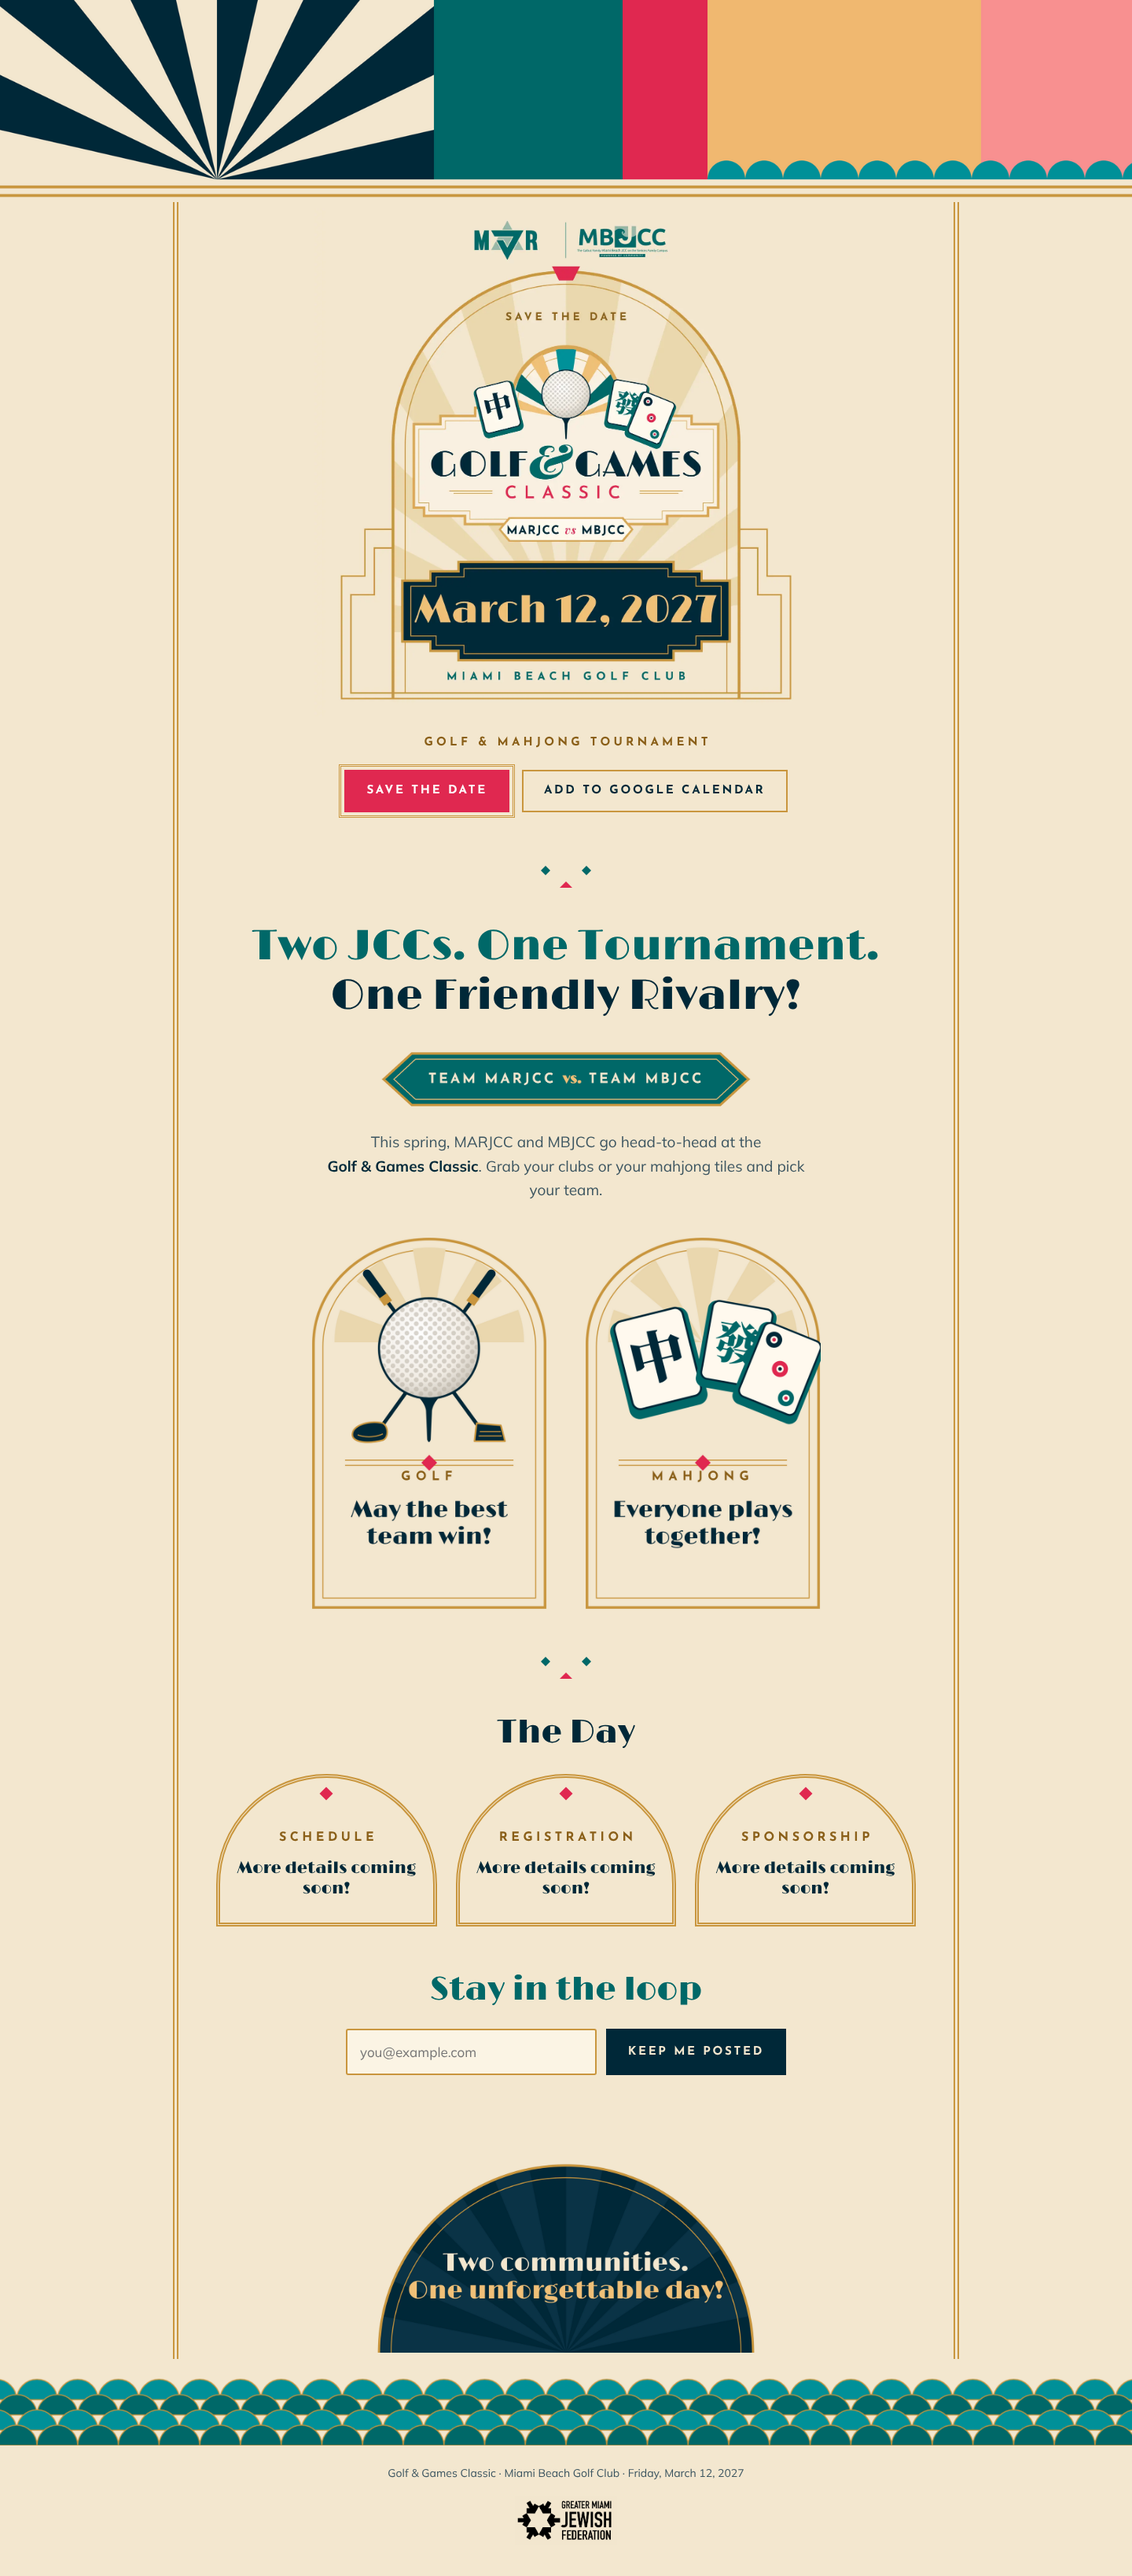
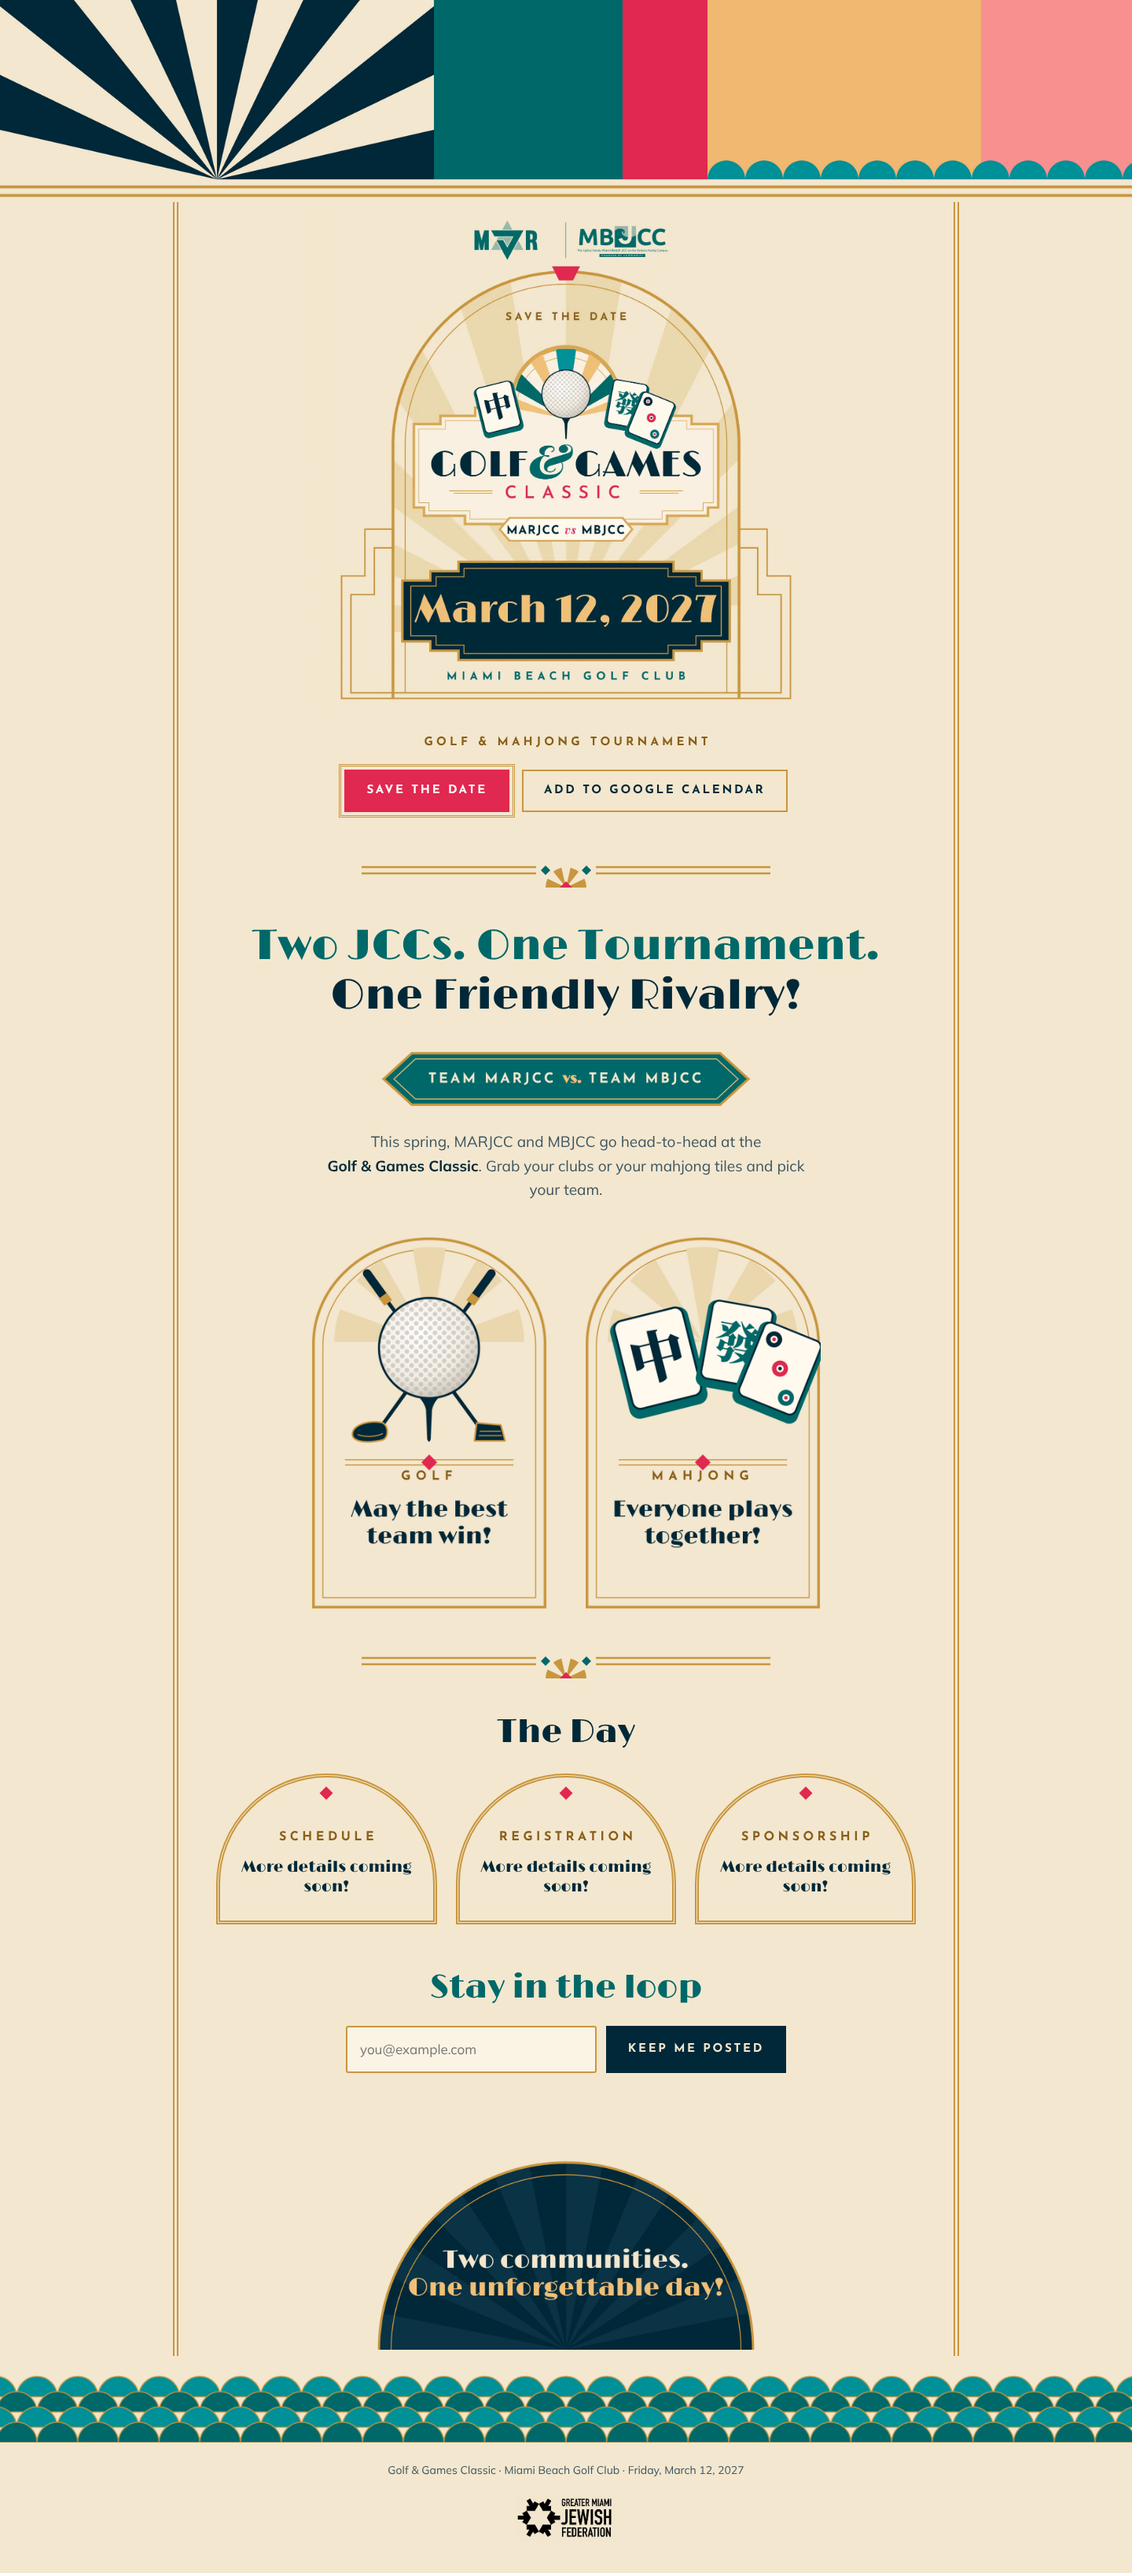
WIP: Art Deco rollout in progress
Claude-Session: https://claude.ai/code/session_014Yf17Fk2qdVoQEw95c3A5W

diff --git a/landing/render.js b/landing/render.js
@@ -8,7 +8,7 @@ const path = require('path');
     await p.goto(url, { waitUntil: 'load' });
     await p.evaluate(() => document.fonts.ready);
     // show the finished state: lines drawn, sections revealed
-    await p.addStyleTag({ content: '*{animation-delay:-60s!important;animation-play-state:running!important;transition:none!important}.js .reveal{opacity:1!important;transform:none!important}' });
+    await p.addStyleTag({ content: '*{animation-delay:-60s!important;animation-play-state:running!important;transition:none!important}.js .reveal{opacity:1!important;transform:none!important}.js .divider .draw{stroke-dashoffset:0!important}.js .divider .fan path{transform:scale(1)!important}' });
     await p.waitForTimeout(600);
   };
   for (const [name, w, h] of [['preview-desktop', 1440, 900], ['preview-mobile', 390, 844]]) {

diff --git a/landing/styles.css b/landing/styles.css
@@ -59,7 +59,7 @@ img{display:block;max-width:100%;height:auto}
 .arch{border:5px double var(--gold);border-radius:999px 999px 0 0;padding:64px 16px 30px;background:var(--beige);position:relative}
 .arch::before{content:"";position:absolute;left:50%;top:14px;width:12px;height:12px;background:var(--red);transform:translateX(-50%) rotate(45deg)}
 .arch h3{margin:0;font-size:16px;color:var(--gold-text)}
-.arch p{margin:12px 0 0;font-family:Limelight,Georgia,serif;font-size:21px;line-height:1.25;color:var(--navy)}
+.arch p{margin:12px 0 0;font-family:Limelight,Georgia,serif;font-size:20px;line-height:1.25;color:var(--navy)}
 
 /* stay in the loop */
 .loop{text-align:center;margin-top:56px}

diff --git a/landing/README.md b/landing/README.md
@@ -4,9 +4,9 @@ Sitio estático (HTML, CSS y un poco de JavaScript). No necesita compilar nada: 
 
 ## Archivos
 - `index.html`: la página. `styles.css`, `main.js`: estilos y animaciones.
-- `assets/`: logos (MARJCC y MBJCC en blanco arriba, GMJF al final), logo del evento optimizado y `golf-games-classic-2027.ics` para el botón "Save the date".
+- `assets/`: piezas Art Deco en `assets/deco/` (franja, arco con el logo y los logos de MARJCC y MBJCC en verde azulado, placa, tarjetas, cierre, olas), `gmjf-logo-black.png` (siempre al final), favicon y `golf-games-classic-2027.ics` para el botón "Save the date".
 - `og-image.png`: la imagen que aparece al compartir el link en WhatsApp, Facebook, etc.
-- `gen.js`: genera `index.html` y `og.html`. Solo hace falta correrlo si cambias el diseño (`node gen.js`). `render.js` vuelve a sacar las vistas previas y la imagen para compartir (`node render.js`).
+- Diseño Art Deco beige: `index.html`, `styles.css` y `main.js` se editan a mano. Las piezas gráficas (`assets/deco/`) salen de las mismas fuentes que los emails (`emails/src-deco/parts.html`, en alta resolución con `save-the-date/src-deco/render-parts.cjs`). `render.js` vuelve a sacar las vistas previas y la imagen para compartir (`node render.js`).
 
 ## Ver la página en tu computadora
 1. Abre una terminal en la carpeta `landing/`.
@@ -19,6 +19,6 @@ Sitio estático (HTML, CSS y un poco de JavaScript). No necesita compilar nada: 
 3. **GitHub Pages**: en el repositorio, Settings → Pages, publica desde la rama y la carpeta `landing/` (o copia su contenido a una rama `gh-pages`).
 
 ## Antes de lanzarla
-- Cuando tengas el dominio final, cambia `og:image` en `index.html` (y en `gen.js`) por la URL completa, por ejemplo `https://golf.marjcc.org/og-image.png`; algunas redes no leen rutas relativas.
+- Cuando tengas el dominio final, cambia `og:image` en `index.html` por la URL completa, por ejemplo `https://golf.marjcc.org/og-image.png`; algunas redes no leen rutas relativas.
 - El formulario "Stay in the loop" todavía no guarda correos: solo muestra un mensaje de gracias. Para conectarlo a una audiencia de Resend hay que crear una función serverless (`/api/subscribe`) con la API key guardada en el servidor. Está marcado con un comentario `TODO (Resend)` en `index.html` y `main.js`.
 - Schedule, Registration y Sponsorship dicen "More details coming soon!" hasta que haya información.
